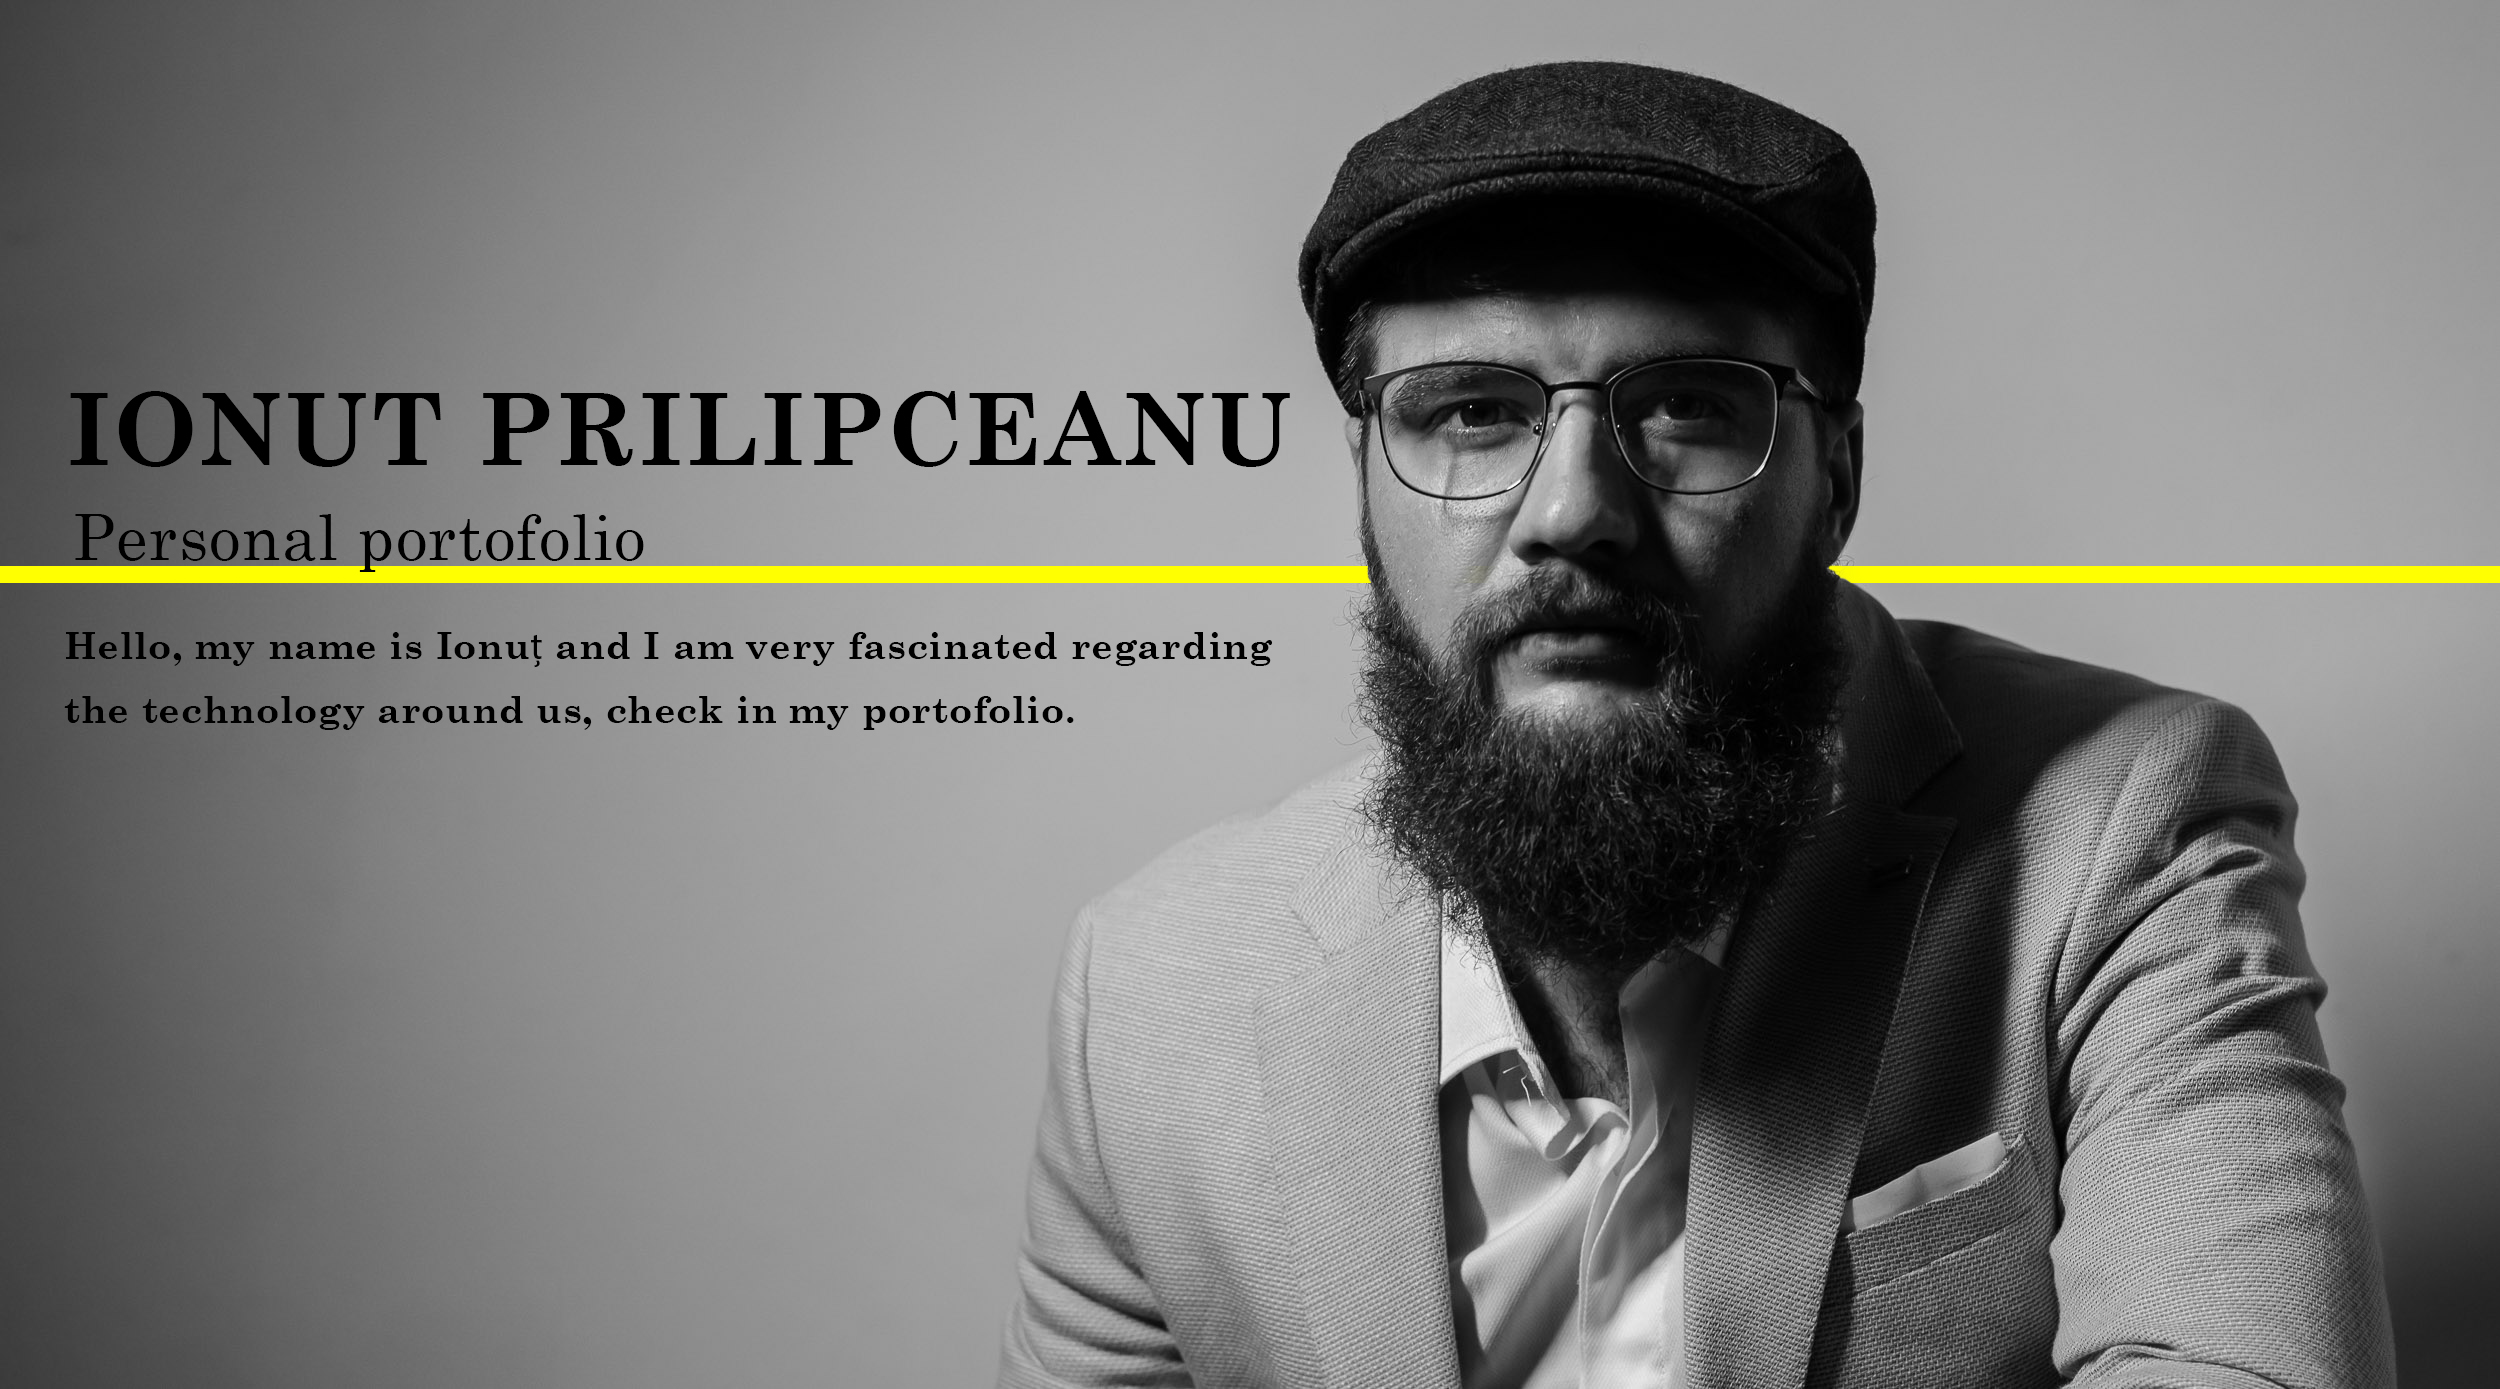
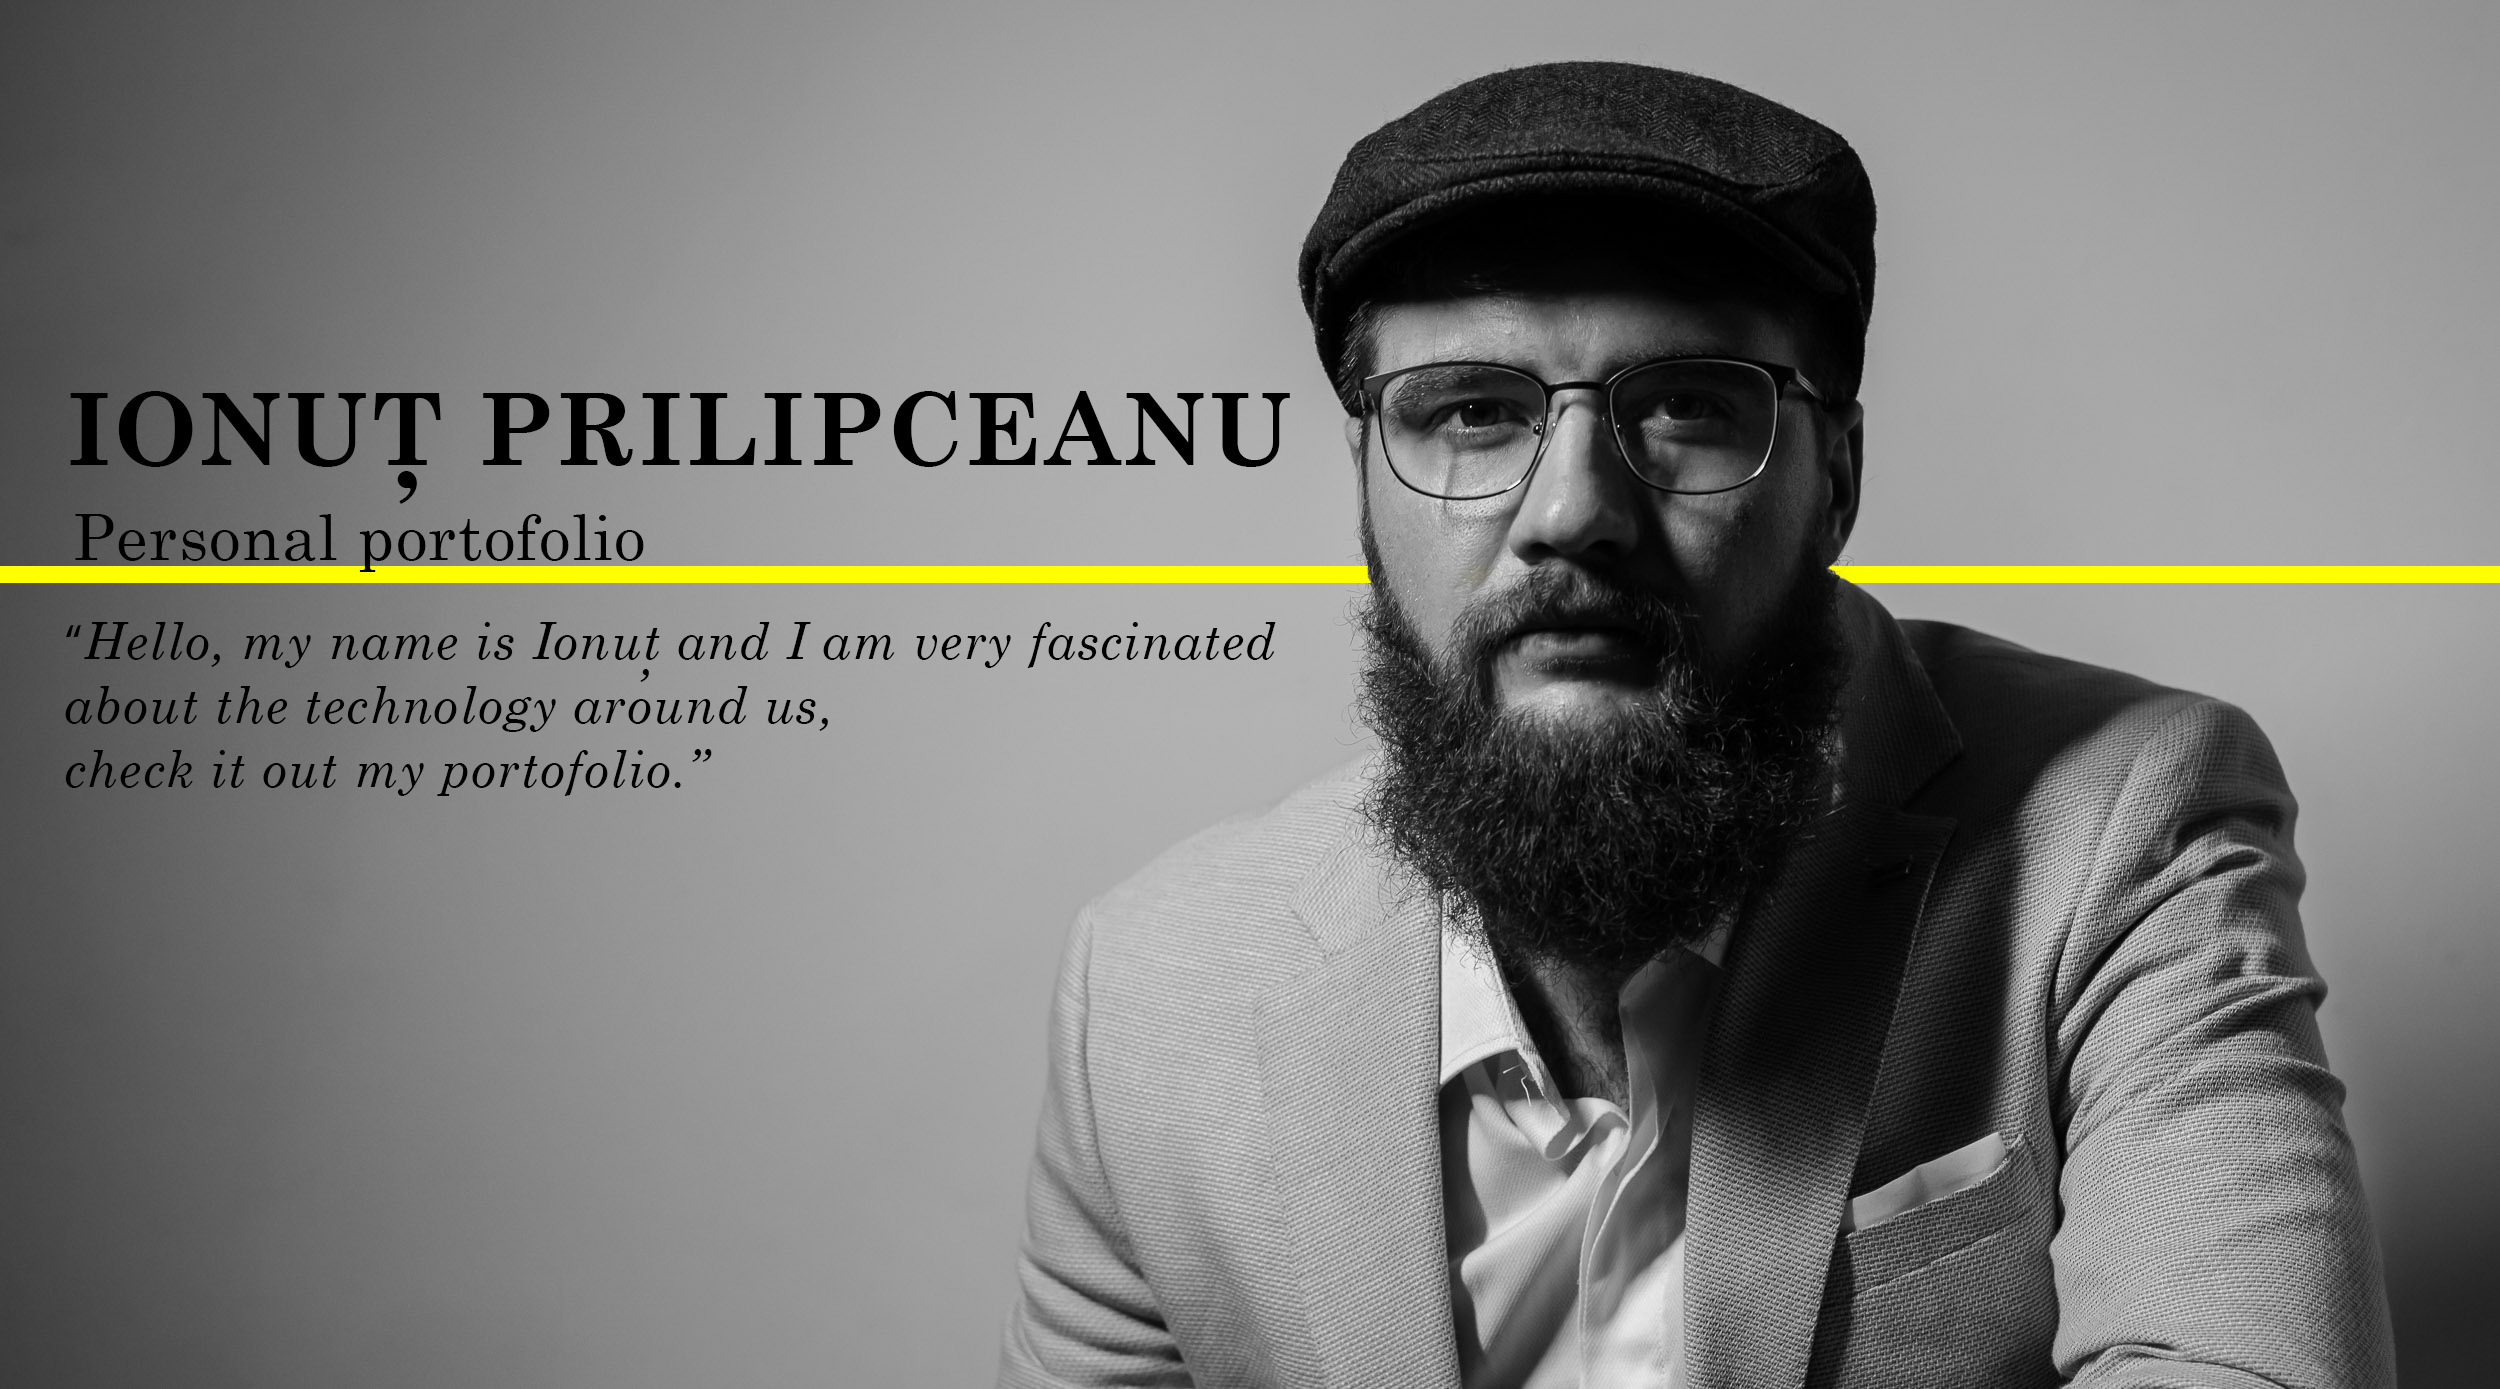
up

Changed region(s): [[0.0312, 0.4334, 0.4992, 0.5882], [0.156, 0.5572, 0.1872, 0.5882], [0.156, 0.3405, 0.1872, 0.3715]]

diff --git a/src/pages/index.js b/src/pages/index.js
@@ -18,7 +18,7 @@ export default class index extends react.Component {
             {/* <!-- Primary Meta Tags --> */}
             <title>Ionuț Prilipceanu- Personal Portofolio | Iași  </title>
             <meta name="title" content="Ionuț Prilipceanu- Personal Portofolio | Iași  "/>
-            <meta name="description" content="Hello, my name is Ionuț and I am very fascinated regarding the technology around us, check in my portofolio."/>
+            <meta name="description" content="Hello, my name is Ionut and I am very fascinated about the technology around us, check it out my portofolio."/>
             <meta name="viewport" content="width=device-width, initial-scale=1.0"></meta>
             <meta name="keywords" content="web developer, web design, portofolio, portofolio for web design, design, frontend developer, developer, frontend job, facebook, jobs,"></meta>
             <meta name="author" content="Ionuț Prilipceanu"/>
@@ -39,7 +39,7 @@ export default class index extends react.Component {
             <meta property="og:type" content="website"/>
             <meta property="og:url" content="https://metatags.io/"/>
             <meta property="og:title" content="Ionuț Prilipceanu- Personal Portofolio | Iași "/>
-            <meta property="og:description" content="Hello, my name is Ionuț and I am very fascinated regarding the technology around us, check in my portofolio."/>
+            <meta property="og:description" content="Hello, my name is Ionut and I am very fascinated about the technology around us, check it out my portofolio."/>
             <meta property="og:image" content="/images/cover-img.jpg"/>
 	          <meta property="og:image:width" content="600"/>
 	          <meta property="og:image:height" content="315"></meta>
@@ -48,7 +48,7 @@ export default class index extends react.Component {
             <meta property="twitter:card" content="summary_large_image"/>
             <meta property="twitter:url" content="https://metatags.io/"/>
             <meta property="twitter:title" content="Ionuț Prilipceanu- Personal Portofolio | Iași "/>
-            <meta property="twitter:description" content="Hello, my name is Ionuț and I am very fascinated regarding the technology around us, check in my portofolio."/>
+            <meta property="twitter:description" content="Hello, my name is Ionut and I am very fascinated about the technology around us, check it out my portofolio."/>
             <meta property="twitter:image" content="/images/cover-img.jpg"/>
           </Helmet>
 
